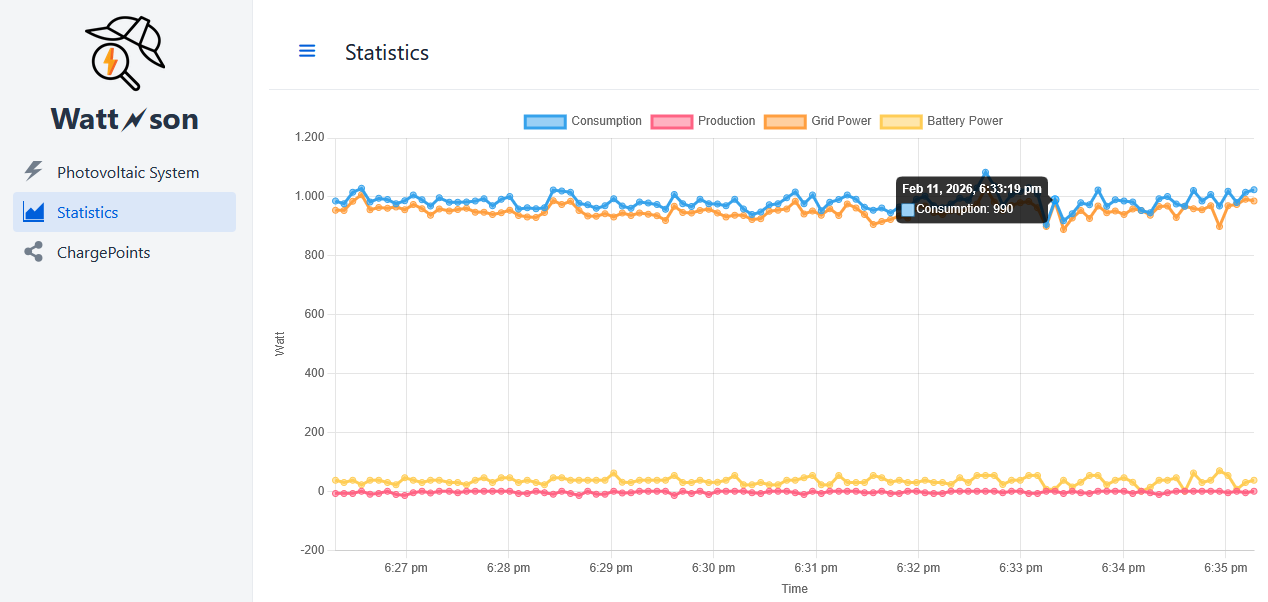
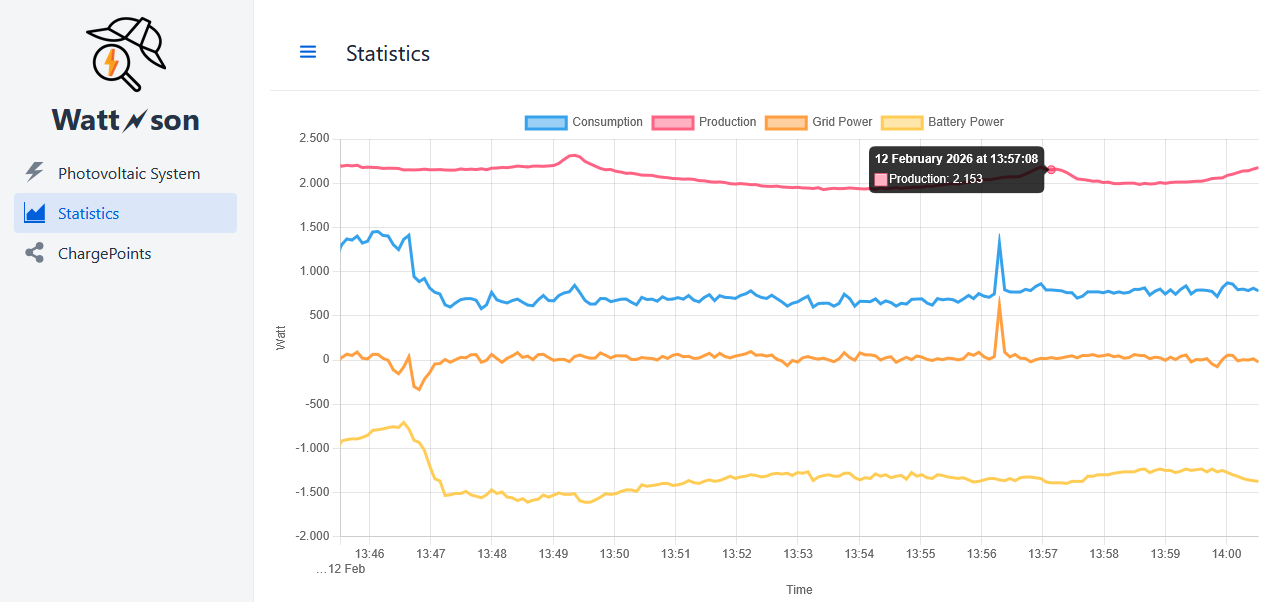
improve charts; implement sliding window and use better readable time scale

diff --git a/src/main/frontend/components/chartjs-chart.ts b/src/main/frontend/components/chartjs-chart.ts
@@ -2,6 +2,7 @@ import {css, html, LitElement, type TemplateResult} from 'lit';
 import {customElement, property} from 'lit/decorators.js';
 import {Chart, type ChartDataset, type ChartType, registerables} from 'chart.js';
 import 'chartjs-adapter-moment';
+import 'chartjs-scale-timestack';
 
 Chart.register(...registerables);
 
@@ -16,12 +17,15 @@ export class ChartjsChart extends LitElement {
 
         canvas {
             width: 100%;
-            height: 50%;
+            height: 100%;
         }
     `;
 
     @property({type: String})
     chartType: ChartType = 'line';
+
+    @property({type: Number})
+    WINDOW_SIZE_ms: number = 0;
 
     private chart?: Chart;
     private chartConfig: any;
@@ -63,7 +67,7 @@ export class ChartjsChart extends LitElement {
         this.chart?.destroy();
     }
 
-    addDataPoint(datasetIndex: number, x: string | Date | number, y: number): void {
+    addDataPoint(datasetIndex: number, x: number, y: number): void {
         console.log('addDataPoint', datasetIndex, x, y);
         if (!this.chart) return;
 
@@ -77,6 +81,25 @@ export class ChartjsChart extends LitElement {
         const dataset = this.chart.data.datasets[datasetIndex] as ChartDataset<any, TimeSeriesPoint[]>;
 
         dataset.data.push({x, y});
+
+        if (this.WINDOW_SIZE_ms > 0) {
+            let windowStart = x - this.WINDOW_SIZE_ms;
+            if (dataset.data?.[0] && dataset.data[0].x < windowStart) {
+                let includePrevious = true;
+                dataset.data = dataset.data.filter((point: Point, index: number, arr: Point[]) => {
+                    if (point.x >= windowStart) {
+                        return true;
+                    }
+                    if (includePrevious && index < arr.length - 1 && arr[index + 1].x >= windowStart) {  // include the immediate predecessor of the points in the window so the chart looks nicer
+                        includePrevious = false;
+                        return true;
+                    }
+                    return false;
+                });
+                this.chart.options.scales!.x!.min = windowStart;
+                this.chart.options.scales!.x!.max = x;
+            }
+        }
 
         this.chart.update();
     }
@@ -131,6 +154,11 @@ export class ChartjsChart extends LitElement {
         return this.chart.data;
     }
 
+}
+
+interface Point {
+    x: number;
+    y: number;
 }
 
 export default ChartjsChart;

diff --git a/src/main/java/com/dave/Vaadin/View/StatisticsView.java b/src/main/java/com/dave/Vaadin/View/StatisticsView.java
@@ -41,24 +41,25 @@ public class StatisticsView extends VerticalLayout implements Observer<PvSystemS
         add(new ViewToolbar("Statistics"));
 
         this.chart = new Chart();
-
+        this.chart.setChartSlidingWindow(1_000 * 60 * 15);
         this.chart.initChart(Map.of(
                 "type", "line",
                 "data", Map.of(
                         "datasets", List.of(
-                                Map.of("label", "Consumption", "data", List.of()),
-                                Map.of("label", "Production", "data", List.of()),
-                                Map.of("label", "Grid Power", "data", List.of()),
-                                Map.of("label", "Battery Power", "data", List.of())
+                                Map.of("label", "Consumption", "data", List.of(), "pointRadius", 0, "pointHoverRadius", 4),
+                                Map.of("label", "Production", "data", List.of(), "pointRadius", 0, "pointHoverRadius", 4),
+                                Map.of("label", "Grid Power", "data", List.of(), "pointRadius", 0, "pointHoverRadius", 4),
+                                Map.of("label", "Battery Power", "data", List.of(), "pointRadius", 0, "pointHoverRadius", 4)
                         )
                 ),
                 "options", Map.of(
+                        "normalized", true,
+                        "animation", false,
                         "responsive", true,
                         "maintainAspectRatio", false,
                         "scales", Map.of(
                                 "x", Map.of(
-                                        "type", "time",
-                                        "time", Map.of("unit", "minute"),
+                                        "type", "timestack",
                                         "title", Map.of(
                                                 "display", true,
                                                 "text", "Time"
@@ -70,6 +71,10 @@ public class StatisticsView extends VerticalLayout implements Observer<PvSystemS
                                                 "text", "Watt"
                                         )
                                 )
+                        ),
+                        "interaction", Map.of(
+                                "mode", "nearest",
+                                "intersect", false
                         )
                 )
         ));

diff --git a/src/main/java/com/dave/Vaadin/Component/Chart.java b/src/main/java/com/dave/Vaadin/Component/Chart.java
@@ -13,10 +13,11 @@ import java.util.Map;
 @JsModule("./components/chartjs-chart.ts")
 @NpmPackage(value = "chart.js", version = "4.5.1")
 @NpmPackage(value = "chartjs-adapter-moment", version = "1.0.1")
+@NpmPackage(value = "chartjs-scale-timestack", version = "1.0.1")
 public class Chart extends Component implements HasSize {
 
     public void addDataPoint(int datasetIndex, Instant timestamp, Number dataPoint) {
-        getElement().callJsFunction("addDataPoint", datasetIndex, timestamp, dataPoint);
+        getElement().callJsFunction("addDataPoint", datasetIndex, timestamp.toEpochMilli(), dataPoint);
     }
 
     public void setDatasetLabel(int datasetIndex, String label) {
@@ -37,5 +38,9 @@ public class Chart extends Component implements HasSize {
 
     public void initChart(Map<String, Object> config) {
         getElement().callJsFunction("initChart", config);
+    }
+
+    public void setChartSlidingWindow(int timeMs) {
+        getElement().setProperty("WINDOW_SIZE_ms",  timeMs);
     }
 }

diff --git a/README.md b/README.md
@@ -16,7 +16,7 @@ Currently works with Enphase PvSystems. (Other Systems can be supported by imple
 The goal is to develop a CSMS that optimizes EV charging by considering, e.g., solar energy production, solar-battery
 state of charge, electricity pricing, as well as time of day, with support for user-defined custom rules.
 
-## Screenshots (probably not up to date)
+## WIP Screenshots (probably not up to date)
 
 ![](/misc/pv.png)
 ![](/misc/statistics.png)
